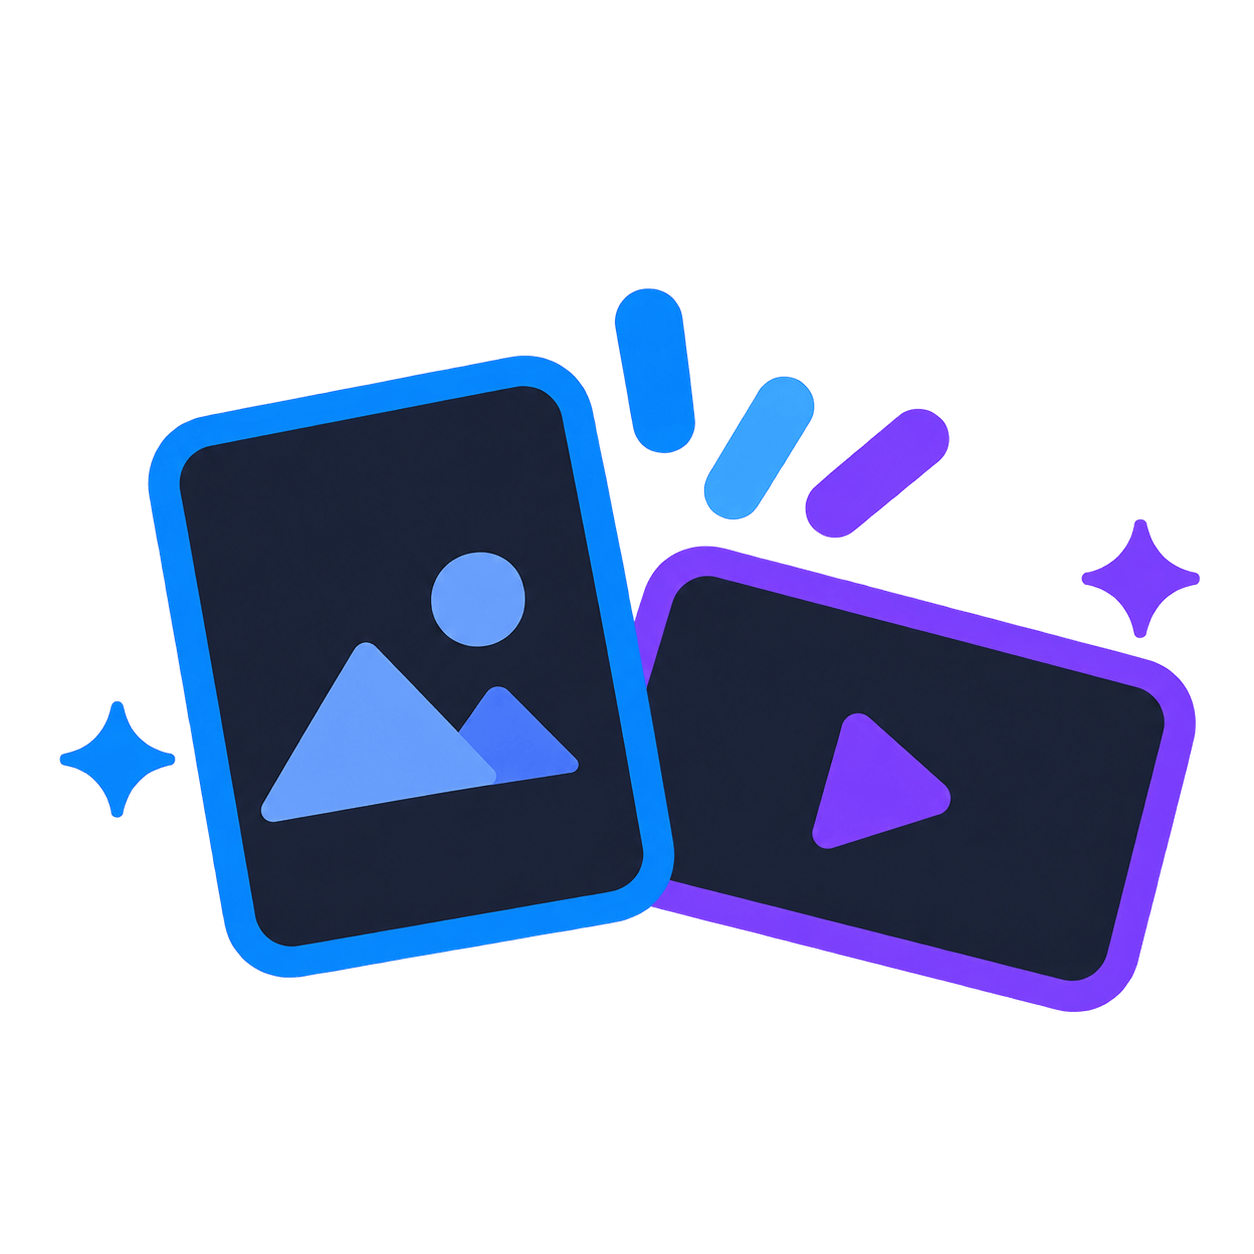
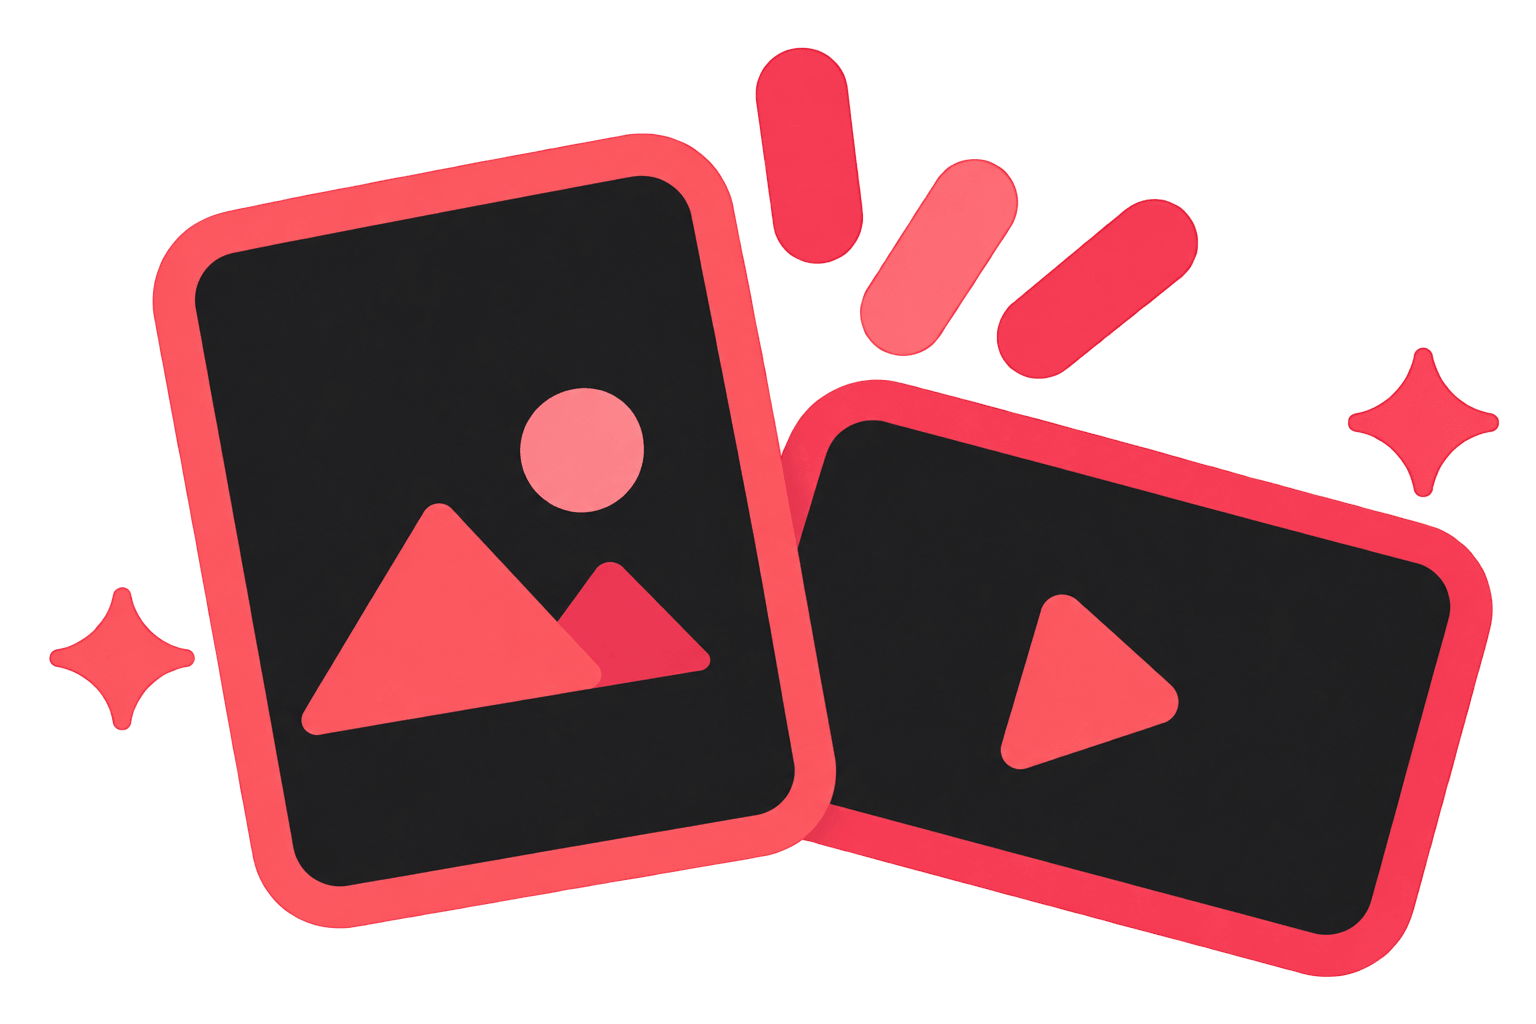
style: add image to permission missing screen

diff --git a/apps/dualzen/src/components/camera/CameraScreen.tsx b/apps/dualzen/src/components/camera/CameraScreen.tsx
@@ -9,6 +9,7 @@ import { recordError } from '@shared/core/services/sentry'
 import { withAlpha } from '@shared/core/utils/color'
 import { BlurView } from 'expo-blur'
 import { GlassView, isGlassEffectAPIAvailable, isLiquidGlassAvailable } from 'expo-glass-effect'
+import { Image } from 'expo-image'
 import {
   CheckSquareIcon,
   DotsSixIcon,
@@ -397,36 +398,44 @@ export function CameraScreen({
       recorder.cameraPermissionCanRequest || recorder.microphonePermissionCanRequest
     return (
       <View style={styles.permission}>
-        <Text variant="title" weight="bold" align="center">
-          {t('camera.permissionTitle')}
-        </Text>
-        <Text tone="secondary" align="center">
-          {t('camera.permissionBody')}
-        </Text>
-        <View style={styles.permissionRows}>
-          <PermissionRow
-            label={t('camera.cameraPermission')}
-            prompted={recorder.cameraPermissionPrompted}
-            status={recorder.cameraPermissionStatus}
-          />
-          <PermissionRow
-            label={t('camera.microphonePermission')}
-            prompted={recorder.microphonePermissionPrompted}
-            status={recorder.microphonePermissionStatus}
+        <Image
+          accessible={false}
+          contentFit="contain"
+          source={require('@/assets/images/camera-permission.png')}
+          style={styles.permissionIllustration}
+        />
+        <View style={styles.permissionContent}>
+          <Text variant="title" weight="bold" align="center">
+            {t('camera.permissionTitle')}
+          </Text>
+          <Text tone="secondary" align="center">
+            {t('camera.permissionBody')}
+          </Text>
+          <View style={styles.permissionRows}>
+            <PermissionRow
+              label={t('camera.cameraPermission')}
+              prompted={recorder.cameraPermissionPrompted}
+              status={recorder.cameraPermissionStatus}
+            />
+            <PermissionRow
+              label={t('camera.microphonePermission')}
+              prompted={recorder.microphonePermissionPrompted}
+              status={recorder.microphonePermissionStatus}
+            />
+          </View>
+          <Button
+            fullWidth
+            loading={recorder.capturePermissionsRequesting}
+            onPress={() => {
+              if (canRequestPermission) void recorder.requestCapturePermissions()
+              else
+                void Linking.openSettings().catch((cause) => {
+                  recordError(cause, 'permissions.openSettings', { platform: Platform.OS })
+                })
+            }}
+            label={canRequestPermission ? t('camera.allowAccess') : t('camera.openSettings')}
           />
         </View>
-        <Button
-          fullWidth
-          loading={recorder.capturePermissionsRequesting}
-          onPress={() => {
-            if (canRequestPermission) void recorder.requestCapturePermissions()
-            else
-              void Linking.openSettings().catch((cause) => {
-                recordError(cause, 'permissions.openSettings', { platform: Platform.OS })
-              })
-          }}
-          label={canRequestPermission ? t('camera.allowAccess') : t('camera.openSettings')}
-        />
       </View>
     )
   }
@@ -697,6 +706,14 @@ const createStyles = createThemedStyles((theme) => ({
     justifyContent: 'center',
     paddingVertical: theme.spacing.xl,
     paddingHorizontal: theme.spacing['4xl'],
+    gap: theme.spacing.sm,
+  },
+  permissionIllustration: {
+    width: 176,
+    height: 132,
+    alignSelf: 'center',
+  },
+  permissionContent: {
     gap: theme.spacing.xl,
   },
   permissionRows: {
